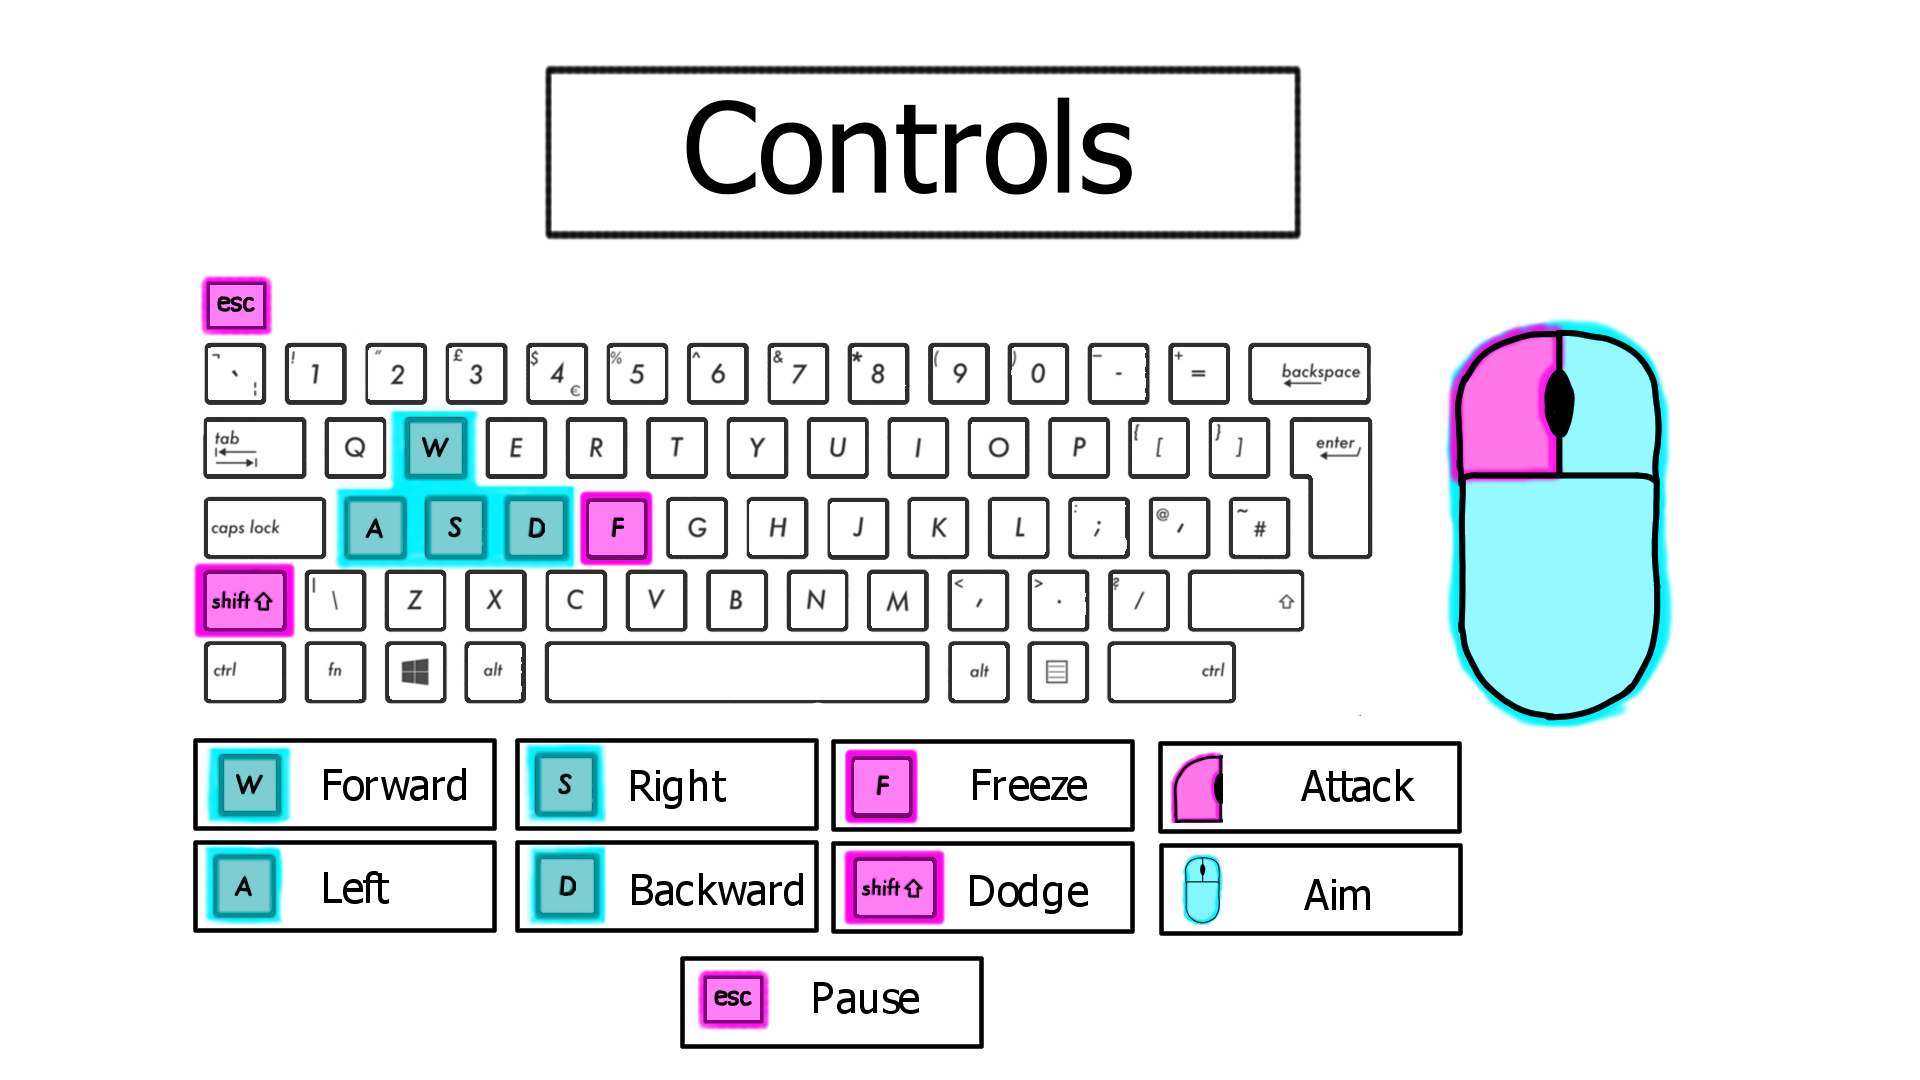
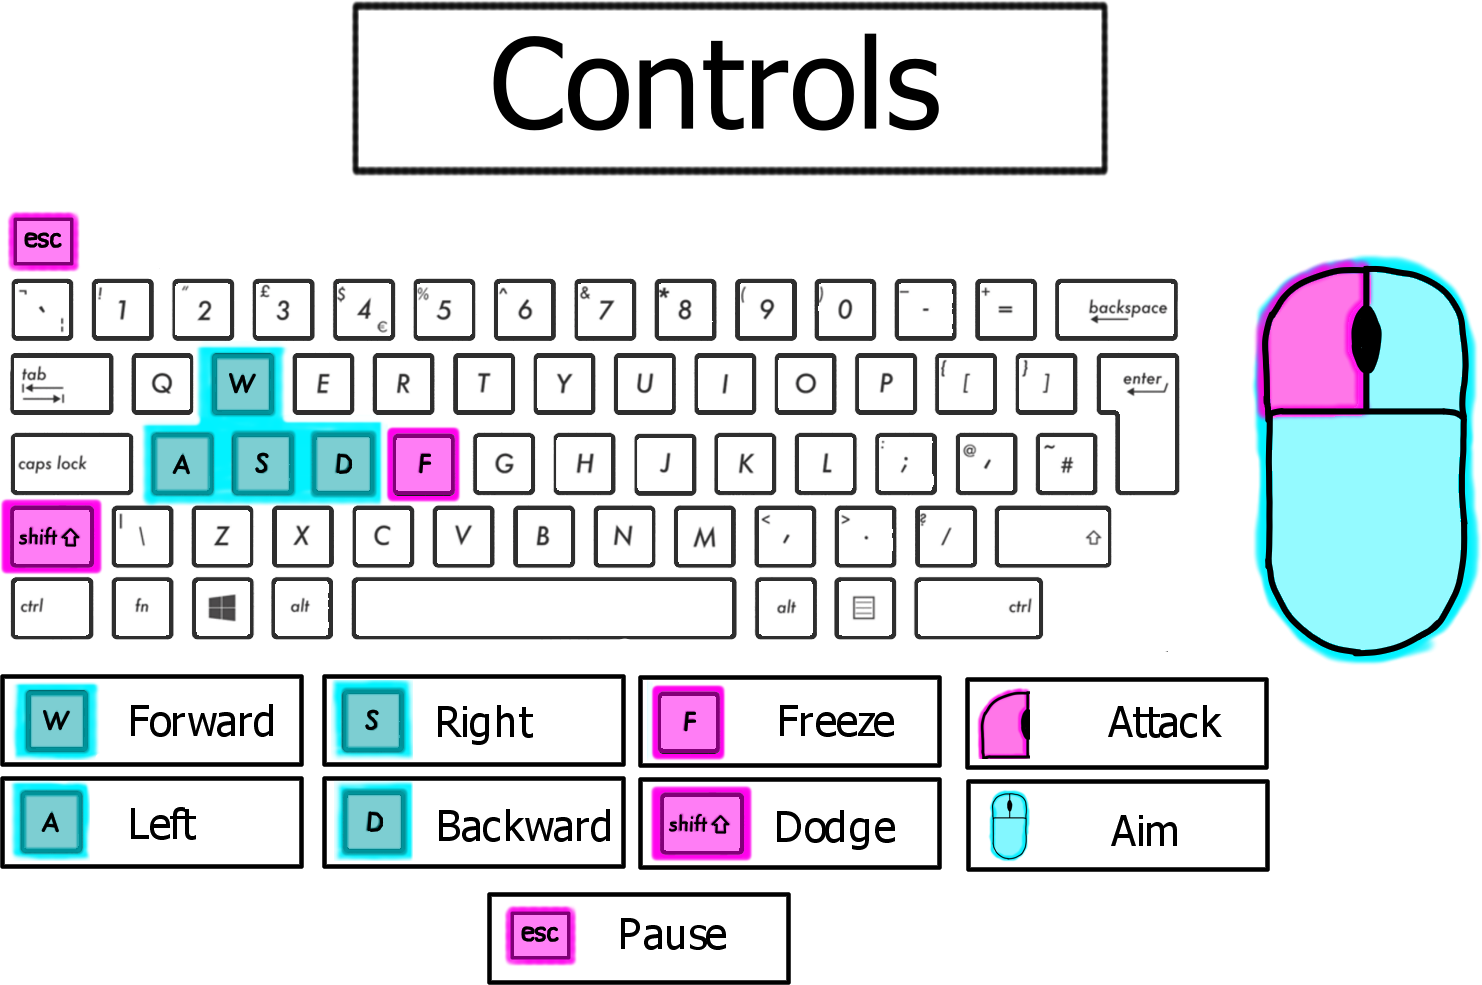
Adding Controls View on Main Menu
Press (I) to view the controls on the main menu.

diff --git a/GDW_Y2 - CNZ/src/scenes/CNZ_TitleScene.cpp b/GDW_Y2 - CNZ/src/scenes/CNZ_TitleScene.cpp
@@ -211,6 +211,26 @@ void cnz::CNZ_TitleScene::OnOpen()
 		image->SetVisible(true);
 	}
 
+	// instructons
+	{
+		cherry::Image* image = new Image("res/images/controls.png", GetName(), false, false);
+		image->SetWindowChild(true);
+		image->SetPositionByWindowSize(Vec2(0.5F, 0.5F));
+		image->SetPositionZ(0.2F);
+		image->SetScale(0.5F);
+		image->SetVisible(false);
+
+		// saving image and adding it to the list.
+		controls = image;
+		objectList->AddObject(image);
+
+		cherry::Text* text = new Text("Press (I) to view controls/hide controls", sceneName, FONT_ARIAL, 
+			Vec4(0.8157F, 0.9725F, 1.0F, 1.0F), 4.0F);
+		text->SetWindowChild(true);
+		text->SetPositionByWindowSize(Vec2(0.975F, 0.96F));
+		objectList->AddObject(text);
+	}
+
 	// loading screen information
 	{
 		// text
@@ -274,8 +294,25 @@ void cnz::CNZ_TitleScene::OnClose()
 	// resetting variables back the original valeues
 	loading = false;
 	nextScene = "";
+	controls = nullptr;
 
 	cherry::MenuScene::OnClose();
+}
+
+// key has been pressed.
+void cnz::CNZ_TitleScene::KeyPressed(GLFWwindow* window, int key)
+{
+	cherry::MenuScene::KeyPressed(window, key);
+
+	switch (key)
+	{
+	case GLFW_KEY_I:
+		if (controls != nullptr)
+		{
+			controls->SetVisible();
+		}
+		break;
+	}
 }
 
 // update loop

diff --git a/GDW_Y2 - CNZ/src/scenes/CNZ_TitleScene.h b/GDW_Y2 - CNZ/src/scenes/CNZ_TitleScene.h
@@ -19,6 +19,9 @@ namespace cnz
 		// closing the scene
 		void OnClose() override;
 
+		// called when a key has been pressed
+		void KeyPressed(GLFWwindow* window, int key) override;
+
 		// update loop
 		void Update(float deltaTime) override;
 
@@ -40,10 +43,13 @@ namespace cnz
 		// if 'true', then the scene is loading.
 		
 		bool loading = false;
+		
+		// image of controls.
+		cherry::Image* controls = nullptr;
+		
 		// gets the string for the next scene.
 		// this is only used if the loading screen is active.
 		std::string nextScene = "";
-
 
 	protected:
 	};

diff --git a/GDW_Y2 - BF PJT/src/cherry/scenes/EngineGameplayScene.cpp b/GDW_Y2 - BF PJT/src/cherry/scenes/EngineGameplayScene.cpp
@@ -191,6 +191,8 @@ void cherry::EngineGameplayScene::OnOpen()
 	matStatic = lightList->GenerateMaterial(STATIC_VS, STATIC_FS, sampler);
 	matDynamic = lightList->GenerateMaterial(DYNAMIC_VS, DYNAMIC_FS, sampler);
 
+	matStatic->GetShader()->SetUniform("a_EmissiveColor", glm::vec3(1.0F, 1.0F, 0.0F));
+	matStatic->GetShader()->SetUniform("a_EmissivePower", 0.2F);
 
 	// loads in default sceneLists
 	if(true)

diff --git a/README.md b/README.md
@@ -4,10 +4,49 @@ The game is named 'Codename: ZERO'.
 
 NOTE: the Shader and stb_image files may need to get removed depending on how our C++ projects develop for Computer Graphics.
 
-CONTROLS (GAME):
-	- W: upward movement
-	- S: downward movement
-	- A: leftward movement
-	- D: rightward movement
-	- Left Mouse Click: charge dash
-		Let go of mouse click to dash.
+- CONTROLS (ENGINE) -
+-- Title Scene --
+Use the mouse to click on the title to enter the game.
+
+-- Gameplay Scene --
+(W) - move camera up
+(S) - move camera down
+(A) - move camera left
+(D) - move camera right
+(Q) - zoom camera out
+(E) - zoom camera in
+
+UP ARROW - rotate camera upwards
+DOWN ARROW - rotate camera downwards
+LEFT ARROW - rotate camera to the left
+RIGHT ARROW - rotate camera to the right
+Page Up - rotate camera clockwise
+Page Down - rotate camera counter-clockwise
+
+(L) - look at world origin
+
+(0) - Delete Item
+(1) - No Post-Processing
+(2) - Scales1 (Invert, Greyscale, Sepia, Gamma Correction)
+(3) - Scales2 (Red, Blue, Green)
+(4) - Kernel/Visuals (Edge Detect, Sharpen)
+(5) - Lighting (Lighting, Shadows, Cel)
+(6) - Blur (Box, Gaussian 3X3, Gaussian 5X5, Radial-Circular, Radial-Linear, Radial-Zoom In, Radial - Zoom Out)
+(7) - Bloom (Box, Gaussian, Radial)
+(8) - Camera (Depth of Field, Motion Blur)
+(9) - Look Up Tables (Cool, Warm)
+
+- CONTROLS (GAME) -
+-- Title Scene --
+Use the mouse to click on buttons.
+Use (I) to view controls.
+
+-- Gameplay Scene --
+W: upward movement
+S: downward movement
+A: leftward movement
+D: rightward movement
+Left Mouse Click: charge dash
+	- Let go of mouse click to dash.
+ESC: pause
+F: Freeze Screen
